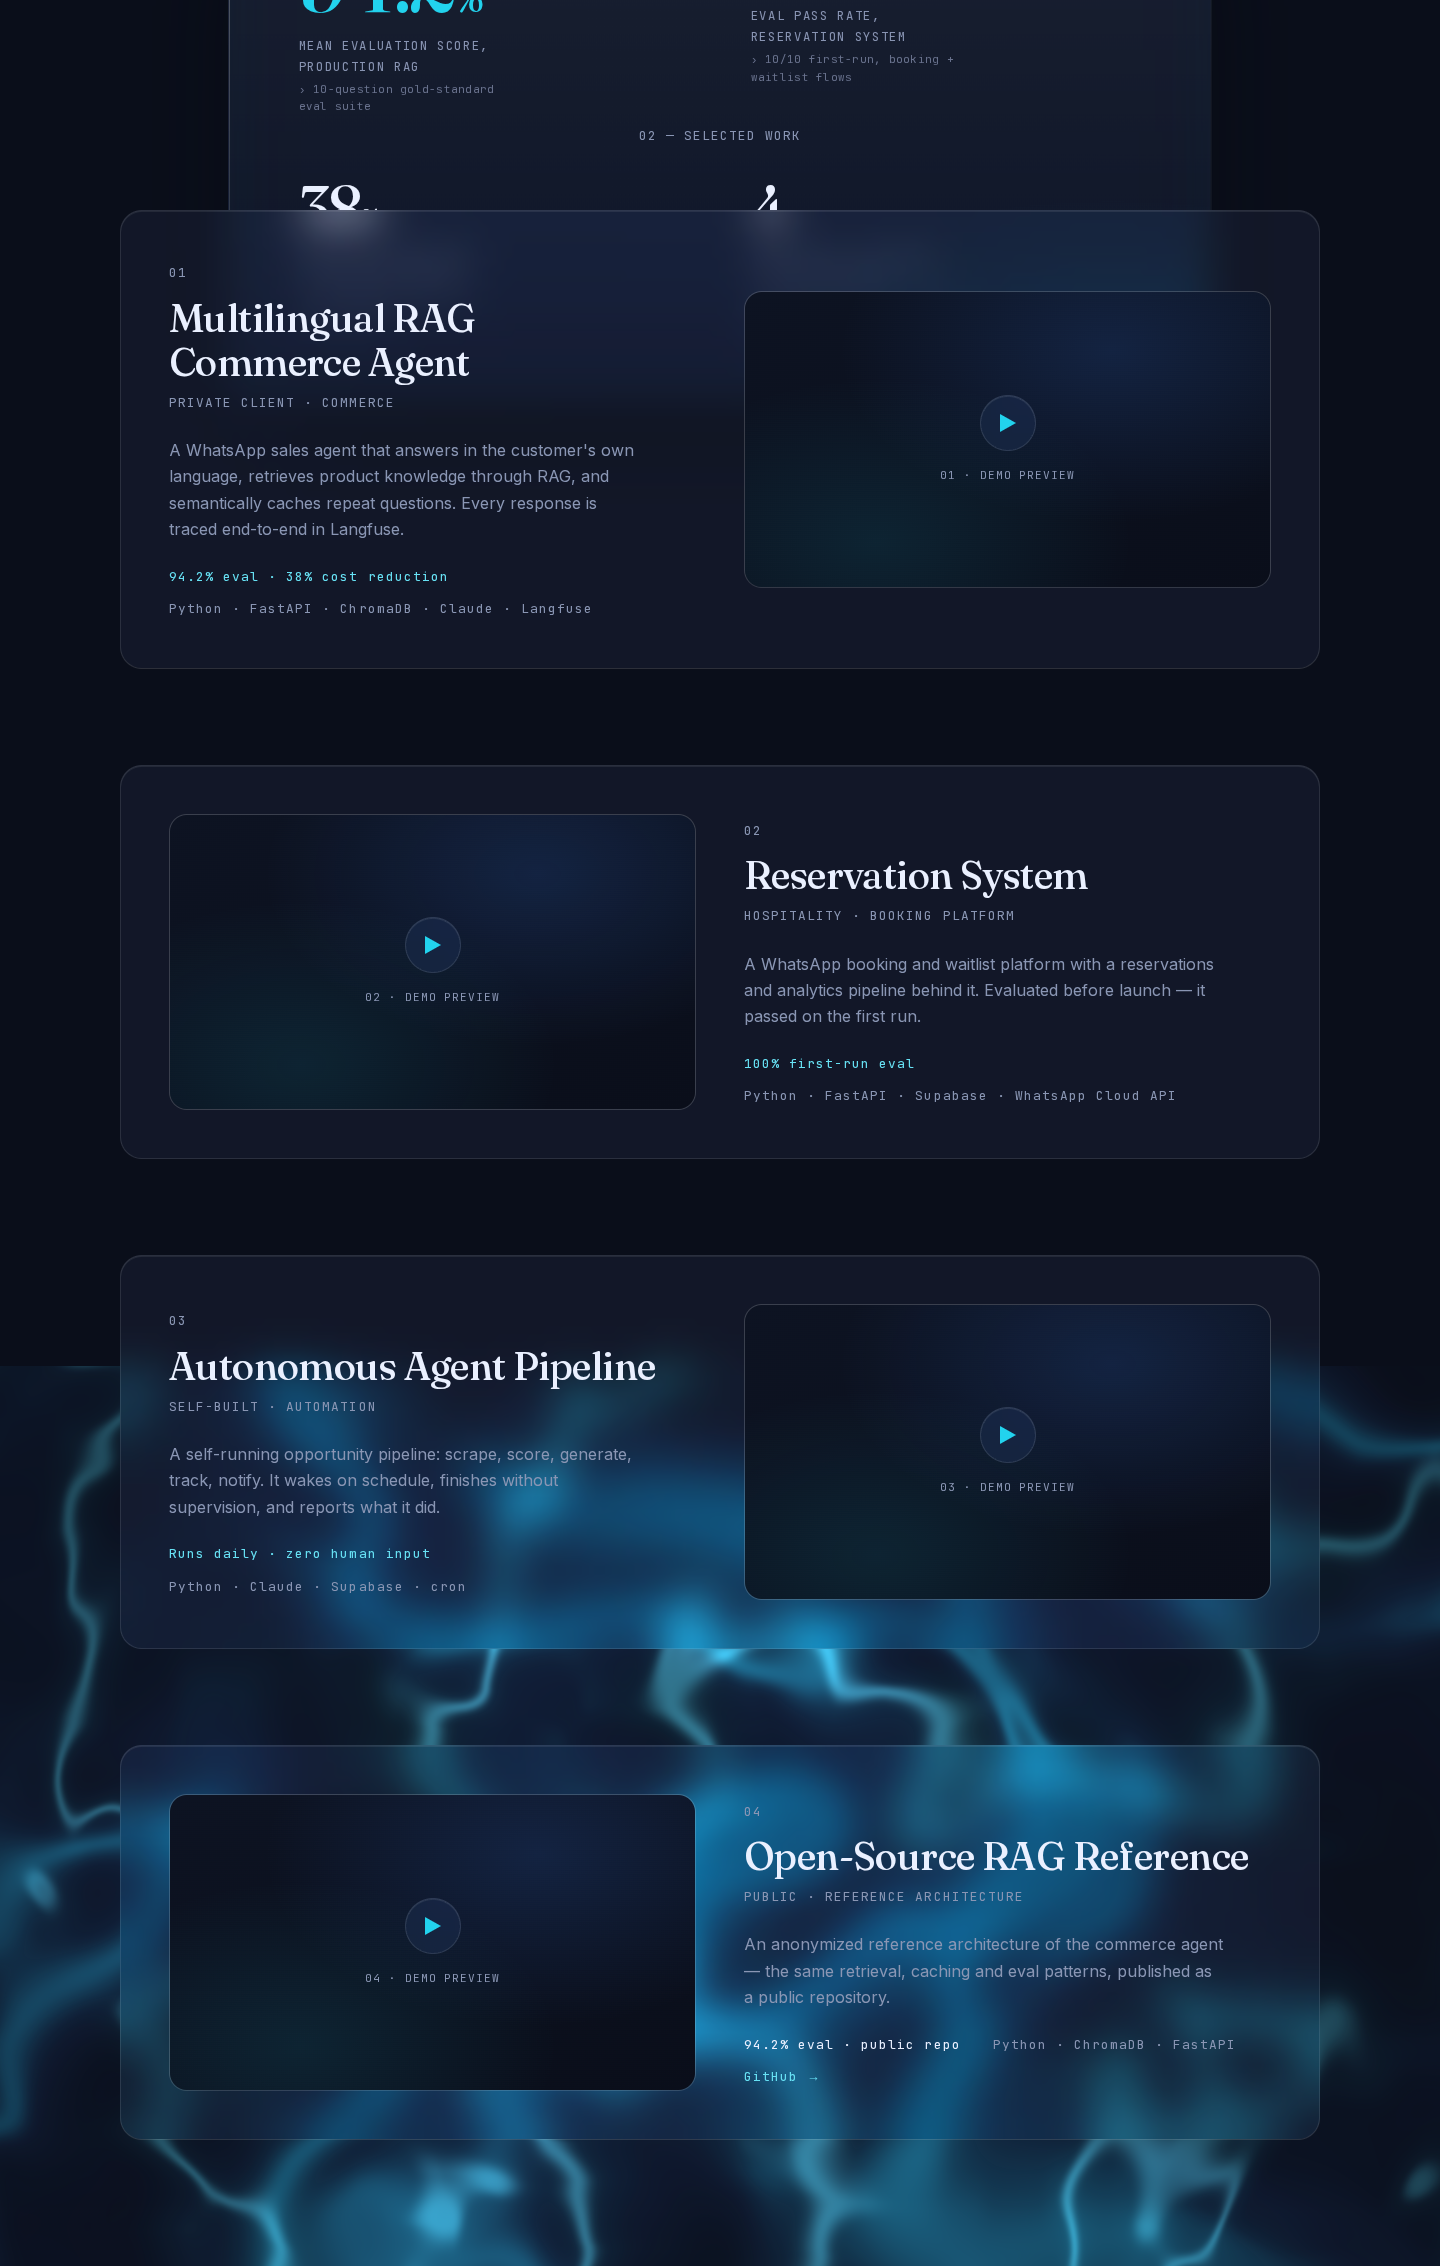
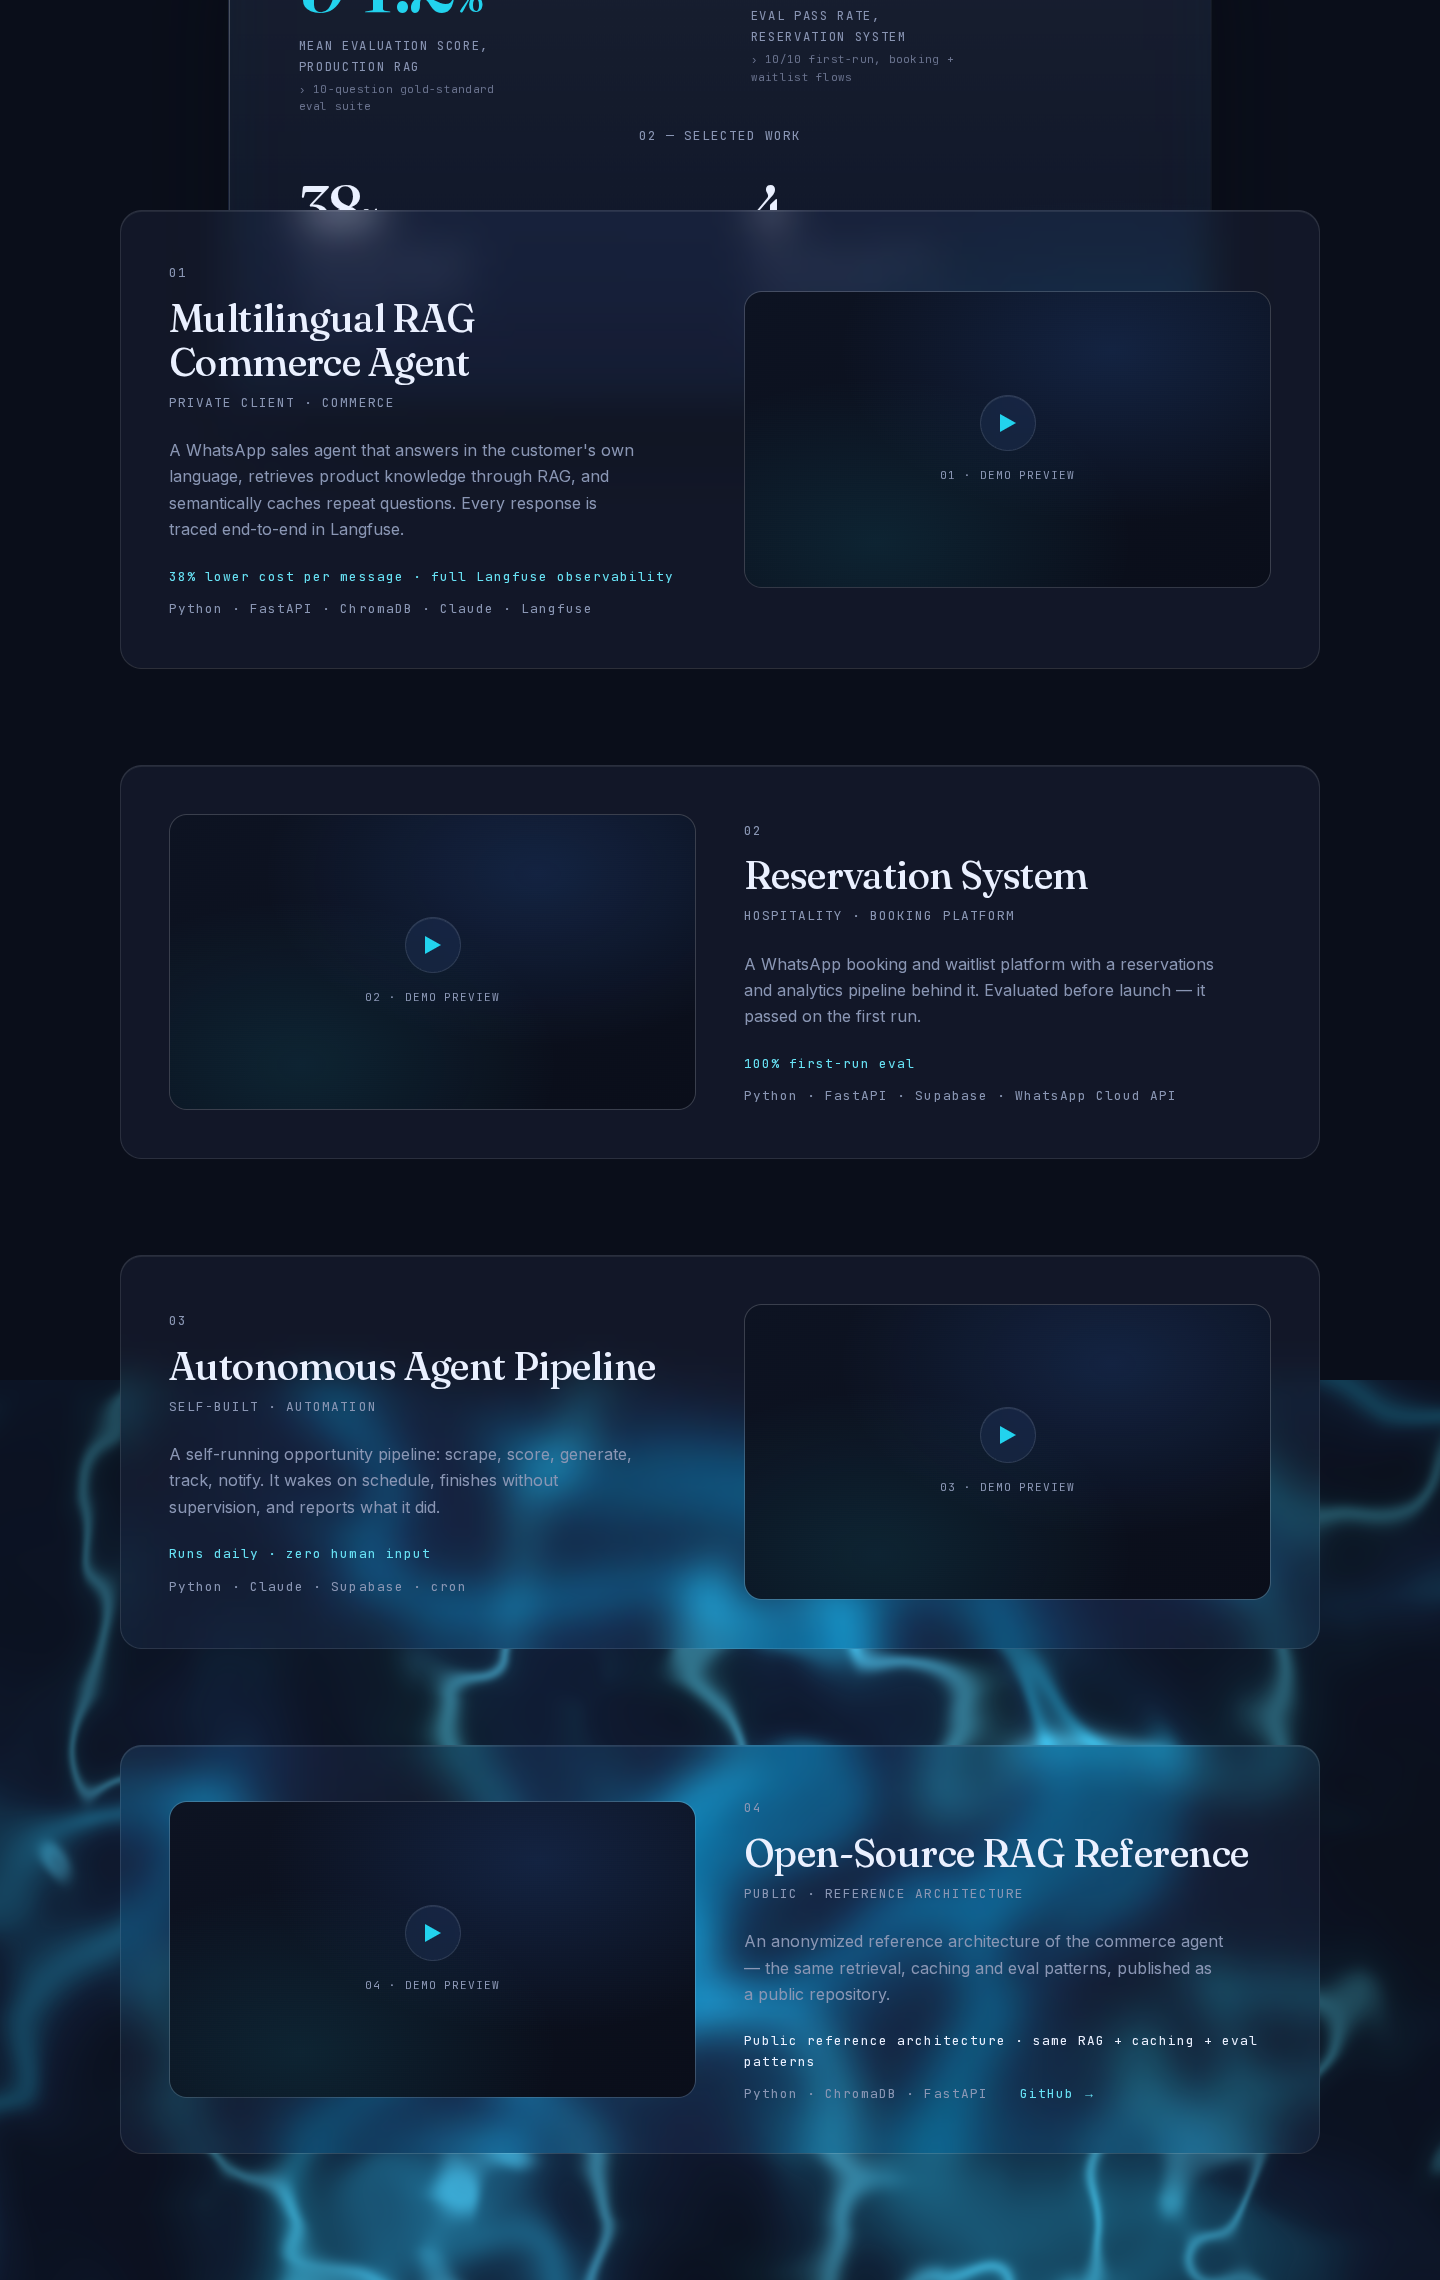
feat(portfolio-dark): Work card entrances — alternating slide + stagger
- Cards animate in on scroll, once each: gentle 40px slide + fade
  (0.6s, house expo-out ease), direction alternating left/right/left/
  right; inside each card the heading, meta, body and metric row
  stagger in at 0.1s
- GSAP ScrollTrigger (existing stack — no Framer Motion dependency),
  clamp()ed start so end-of-page cards always fire
- scroll-behavior: smooth for native anchor jumps, gated behind
  prefers-reduced-motion: no-preference
- Reduced motion: no transforms, no stagger — cards simply visible

Verified: mid-slide frame captured, parked offsets +40/-40/+40 for
cards 2-4, once-only confirmed, 0 console errors, 0 overflow,
tsc + eslint clean.

diff --git a/src/components/portfolio-dark/DarkWork.tsx b/src/components/portfolio-dark/DarkWork.tsx
@@ -2,7 +2,7 @@
 
 import { useEffect, useRef, useState } from "react";
 import Reveal from "@/components/portfolio/Reveal";
-import { prefersReducedMotion } from "@/lib/gsap";
+import { gsap, ScrollTrigger, useGSAP, EASE, prefersReducedMotion } from "@/lib/gsap";
 
 type CaseStudy = {
   index: string;
@@ -147,9 +147,49 @@ function DemoVideo({ name, index, title }: { name: string; index: string; title:
 }
 
 export default function DarkWork() {
+  const scope = useRef<HTMLElement>(null);
+
+  // Card entrances: alternate slide direction (odd from left, even from
+  // right), gentle 40px + fade, then heading -> meta -> body -> metrics
+  // stagger inside. Plays once per card. Reduced motion: no transforms,
+  // everything simply visible.
+  useGSAP(
+    () => {
+      const mm = gsap.matchMedia();
+
+      mm.add("(prefers-reduced-motion: no-preference)", () => {
+        gsap.utils.toArray<HTMLElement>(".work-card").forEach((card, i) => {
+          const items = card.querySelectorAll(".work-stagger");
+          gsap.set(card, { autoAlpha: 0, x: i % 2 === 0 ? -40 : 40 });
+          gsap.set(items, { autoAlpha: 0, y: 14 });
+          ScrollTrigger.create({
+            trigger: card,
+            start: "clamp(top 80%)",
+            once: true,
+            onEnter: () =>
+              gsap
+                .timeline()
+                .to(card, { autoAlpha: 1, x: 0, duration: 0.6, ease: EASE })
+                .to(
+                  items,
+                  { autoAlpha: 1, y: 0, duration: 0.45, ease: EASE, stagger: 0.1 },
+                  "-=0.35"
+                ),
+          });
+        });
+      });
+
+      mm.add("(prefers-reduced-motion: reduce)", () => {
+        gsap.set([".work-card", ".work-stagger"], { autoAlpha: 1, x: 0, y: 0 });
+      });
+    },
+    { scope }
+  );
+
   return (
     <section
       id="work"
+      ref={scope}
       aria-labelledby="work-heading"
       data-chapter=""
       className="relative overflow-hidden"
@@ -169,10 +209,10 @@ export default function DarkWork() {
           {CASES.map((c, i) => {
             const flipped = i % 2 === 1;
             return (
-              <Reveal
+              <article
                 key={c.index}
-                as="article"
-                className="glass rounded-3xl"
+                className="work-card glass rounded-3xl"
+                data-reveal=""
               >
                 <div
                   className="grid grid-cols-1 items-center gap-[var(--space-8)] lg:grid-cols-12 lg:gap-[var(--space-12)]"
@@ -182,7 +222,7 @@ export default function DarkWork() {
                   <div className={`lg:col-span-6 ${flipped ? "lg:order-2" : ""}`}>
                     <span style={mono}>{c.index}</span>
                     <h3
-                      className="mt-[var(--space-3)]"
+                      className="work-stagger mt-[var(--space-3)]"
                       style={{
                         fontFamily: "var(--font-display)",
                         fontSize: "var(--step-4)",
@@ -195,11 +235,11 @@ export default function DarkWork() {
                     >
                       {c.title}
                     </h3>
-                    <p className="mt-[var(--space-2)] uppercase" style={mono}>
+                    <p className="work-stagger mt-[var(--space-2)] uppercase" style={mono}>
                       {c.meta}
                     </p>
                     <p
-                      className="mt-[var(--space-6)]"
+                      className="work-stagger mt-[var(--space-6)]"
                       style={{
                         fontSize: "var(--step-0)",
                         lineHeight: 1.65,
@@ -209,7 +249,7 @@ export default function DarkWork() {
                     >
                       {c.description}
                     </p>
-                    <div className="mt-[var(--space-6)] flex flex-wrap items-baseline gap-x-[var(--space-8)] gap-y-[var(--space-3)]">
+                    <div className="work-stagger mt-[var(--space-6)] flex flex-wrap items-baseline gap-x-[var(--space-8)] gap-y-[var(--space-3)]">
                       <span
                         style={{
                           ...mono,
@@ -238,7 +278,7 @@ export default function DarkWork() {
                     <DemoVideo name={c.demo} index={c.index} title={c.title} />
                   </div>
                 </div>
-              </Reveal>
+              </article>
             );
           })}
         </div>

diff --git a/src/app/globals.css b/src/app/globals.css
@@ -200,6 +200,13 @@
   scroll-margin-top: calc(var(--nav-height) + var(--space-4));
 }
 
+/* Smooth native anchor scrolling (motion-gated; Lenis drives wheel input) */
+@media (prefers-reduced-motion: no-preference) {
+  html:has(.portfolio) {
+    scroll-behavior: smooth;
+  }
+}
+
 .portfolio ::selection {
   background: var(--accent);
   color: #ffffff;
